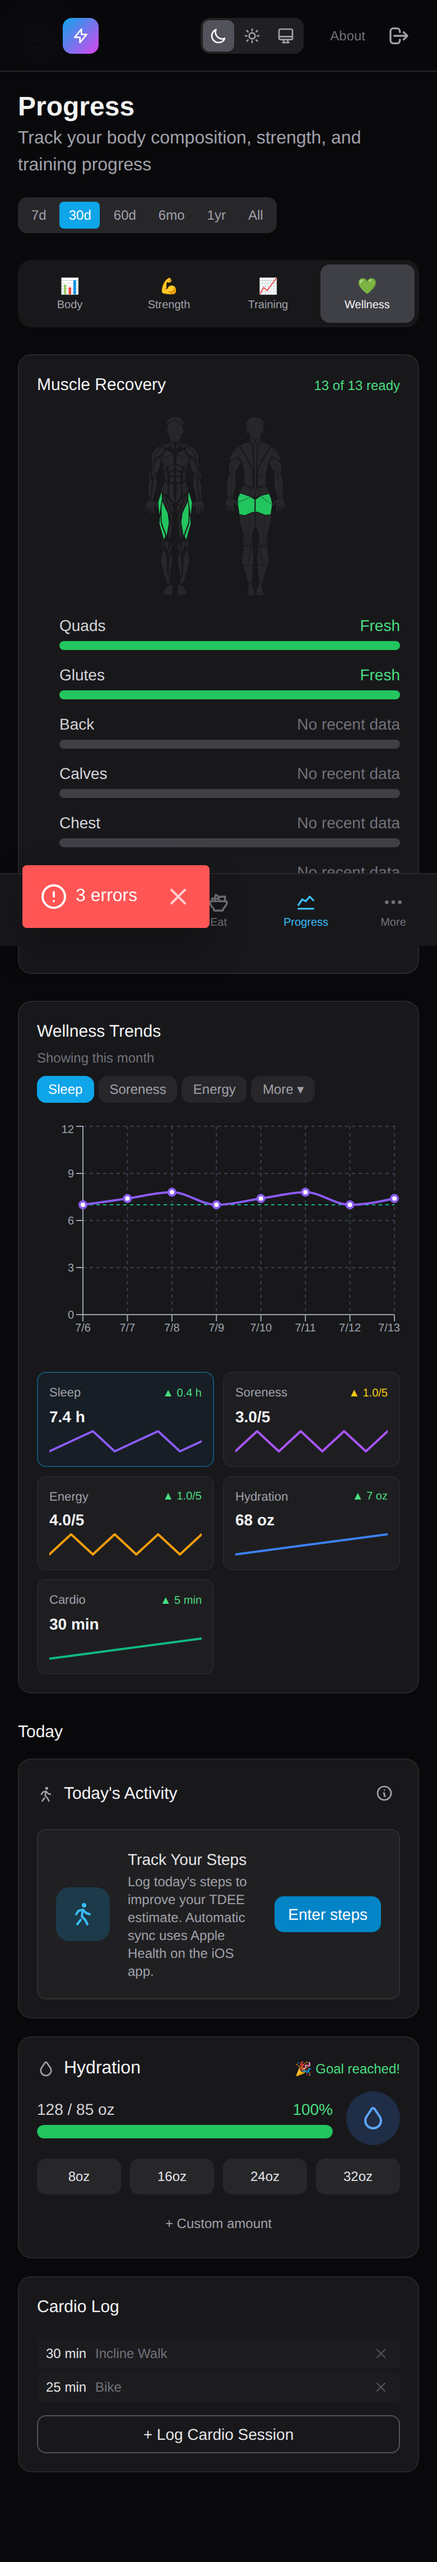
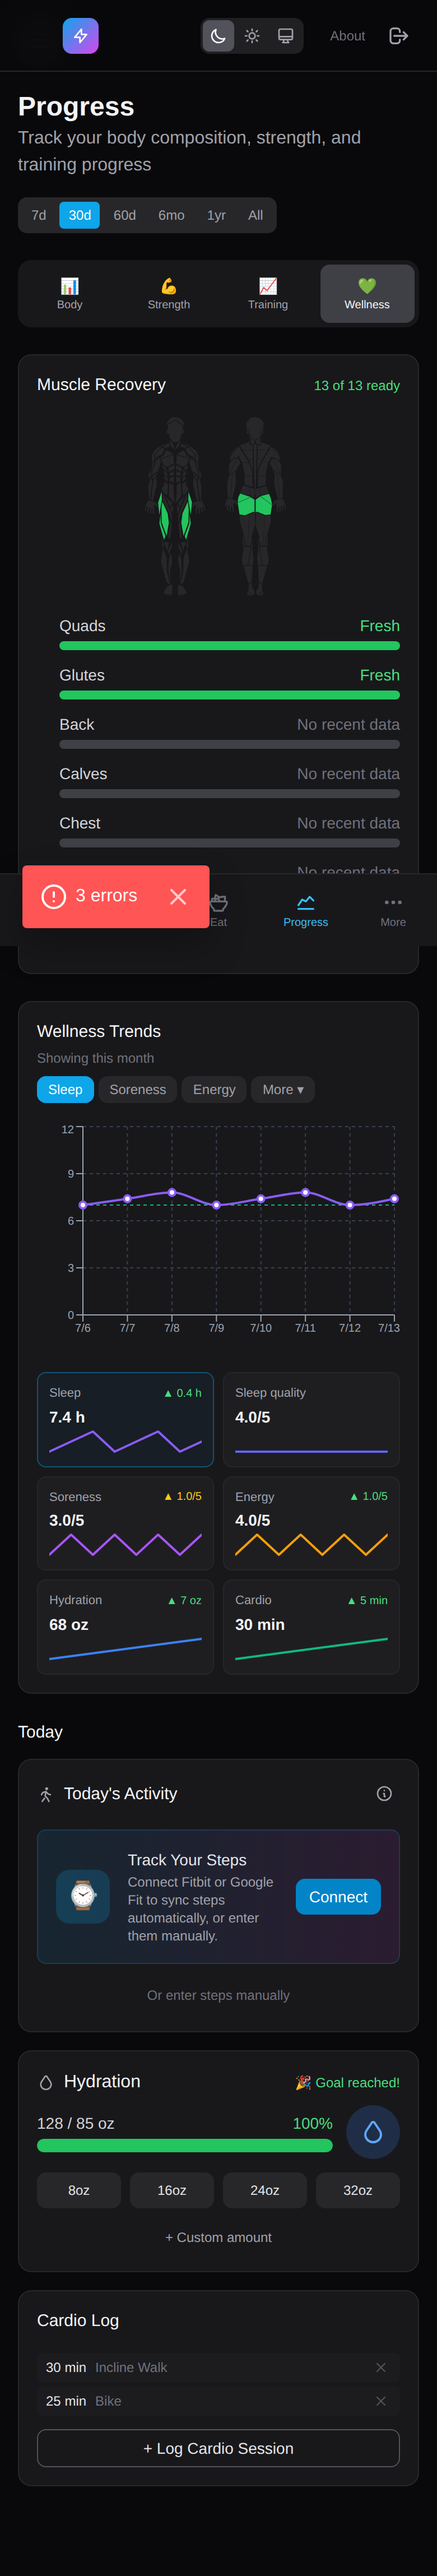
Address Codex review: keep non-iOS wearable connect path + sleep-quality trend
- ActivityCard: the no-connection branch gated the Connect button on
  HealthKit availability, which hid WearableConnectionsScreen from web
  (Fitbit) and Android (Google Fit) users. Restore a single connect branch
  that always offers Connect + manual entry; only the copy adapts by platform.
- WellnessTrendsCard: the consolidated metric list dropped sleepQuality even
  though checkInData still supplies it, so users logging sleep quality lost
  that trend after the old separate chart was removed. Add it back as a
  metric (appears under "More", with a log affordance when unlogged).

Verification walk still passes 23/23.

Claude-Session: https://claude.ai/code/session_01J87VEbYR96Kc2G8phwVSbi

diff --git a/components/dashboard/ActivityCard.tsx b/components/dashboard/ActivityCard.tsx
@@ -329,10 +329,13 @@ export const ActivityCard = memo(function ActivityCard({ userId }: ActivityCardP
                 Enter steps manually
               </button>
             </div>
-          ) : healthKitCapable ? (
-            // Capable iOS device, nothing connected yet: a real connect flow
-            // exists — offer it honestly.
-            <div className="space-y-4">
+          ) : (
+            // No wearable connected yet. The connect flow (WearableConnections
+            // Screen) supports Apple Health on iOS, Fitbit on web, and Google
+            // Fit on Android, so the Connect button stays available on every
+            // platform — only the copy adapts to the device's likely provider.
+            // Manual entry is always offered alongside it.
+            <div className="space-y-3">
               <div className="flex items-center gap-4 p-4 bg-gradient-to-r from-primary-500/10 to-accent-500/10 rounded-lg border border-primary-500/20">
                 <div className="w-12 h-12 rounded-xl bg-primary-500/20 flex items-center justify-center flex-shrink-0">
                   <span className="text-2xl">⌚</span>
@@ -340,8 +343,9 @@ export const ActivityCard = memo(function ActivityCard({ userId }: ActivityCardP
                 <div className="flex-1 min-w-0">
                   <p className="text-sm font-medium text-surface-200">Track Your Steps</p>
                   <p className="text-xs text-surface-400 mt-0.5">
-                    Connect Apple Health to sync steps automatically and improve
-                    your TDEE estimate.
+                    {healthKitCapable
+                      ? 'Connect Apple Health to sync steps automatically and improve your TDEE estimate.'
+                      : 'Connect Fitbit or Google Fit to sync steps automatically, or enter them manually.'}
                   </p>
                 </div>
                 <Button size="sm" onClick={handleOpenConnectModal}>
@@ -354,26 +358,6 @@ export const ActivityCard = memo(function ActivityCard({ userId }: ActivityCardP
               >
                 Or enter steps manually
               </button>
-            </div>
-          ) : (
-            // Non-iOS (web/Android): automatic step sync isn't available on
-            // this device — manual entry is the honest, primary path.
-            <div className="space-y-3">
-              <div className="flex items-center gap-4 p-4 bg-surface-800/50 rounded-lg border border-surface-700/50">
-                <div className="w-12 h-12 rounded-xl bg-primary-500/20 flex items-center justify-center flex-shrink-0">
-                  <IconWalk size={24} className="text-primary-400" aria-hidden="true" />
-                </div>
-                <div className="flex-1 min-w-0">
-                  <p className="text-sm font-medium text-surface-200">Track Your Steps</p>
-                  <p className="text-xs text-surface-400 mt-0.5">
-                    Log today&apos;s steps to improve your TDEE estimate. Automatic
-                    sync uses Apple Health on the iOS app.
-                  </p>
-                </div>
-                <Button size="sm" onClick={handleOpenManualInput}>
-                  Enter steps
-                </Button>
-              </div>
             </div>
           )}
         </CardContent>

diff --git a/components/analytics/WellnessTrendsCard.tsx b/components/analytics/WellnessTrendsCard.tsx
@@ -55,6 +55,7 @@ export interface WellnessTrendsCardProps {
 
 type MetricKey =
   | 'sleepHours'
+  | 'sleepQuality'
   | 'sorenessLevel'
   | 'energyLevel'
   | 'moodRating'
@@ -90,6 +91,14 @@ function metricDefs(hydrationUnit: 'ml' | 'oz'): MetricDef[] {
       lowerIsBetter: false,
       format: (v) => `${v.toFixed(1)} h`,
       targetLine: { y: 7, label: 'Target' },
+    },
+    {
+      key: 'sleepQuality',
+      label: 'Sleep quality',
+      color: '#6366f1',
+      domain: [1, 5],
+      lowerIsBetter: false,
+      format: (v) => `${v.toFixed(1)}/5`,
     },
     {
       key: 'sorenessLevel',
